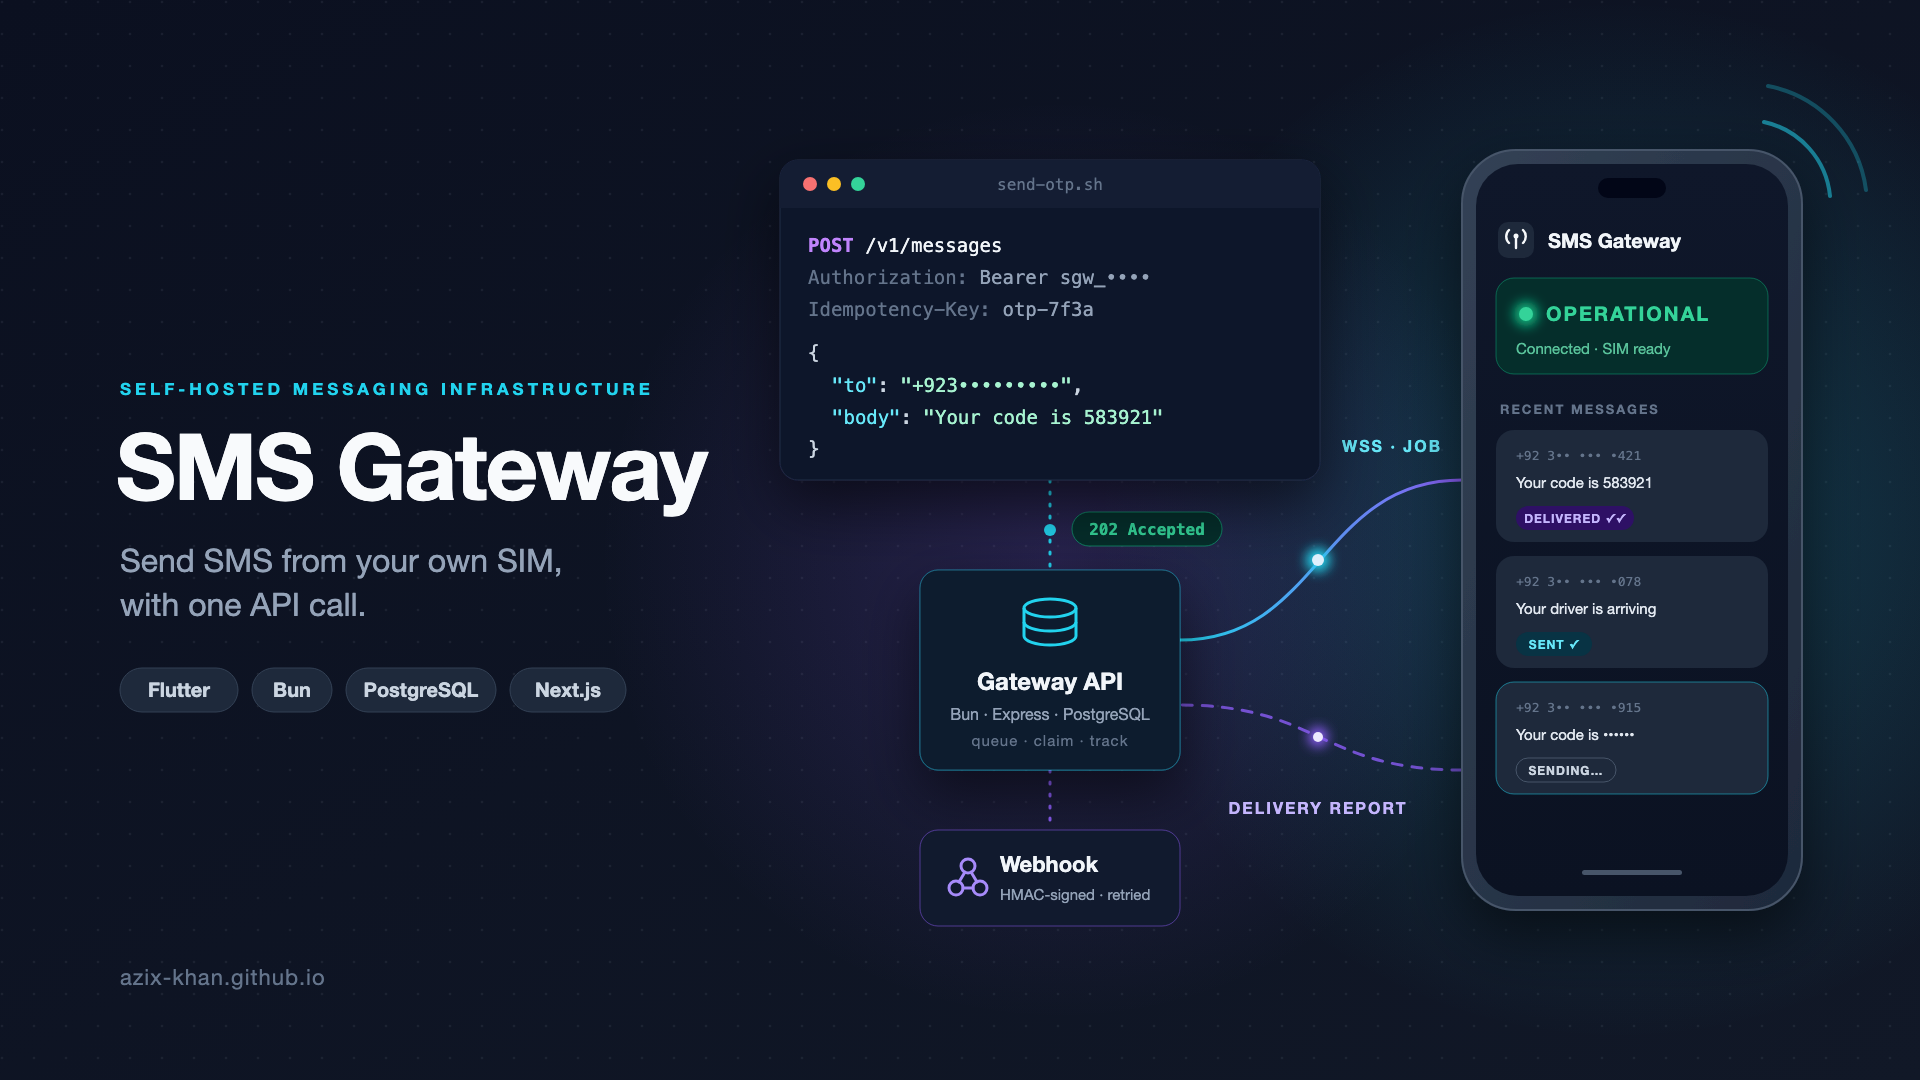
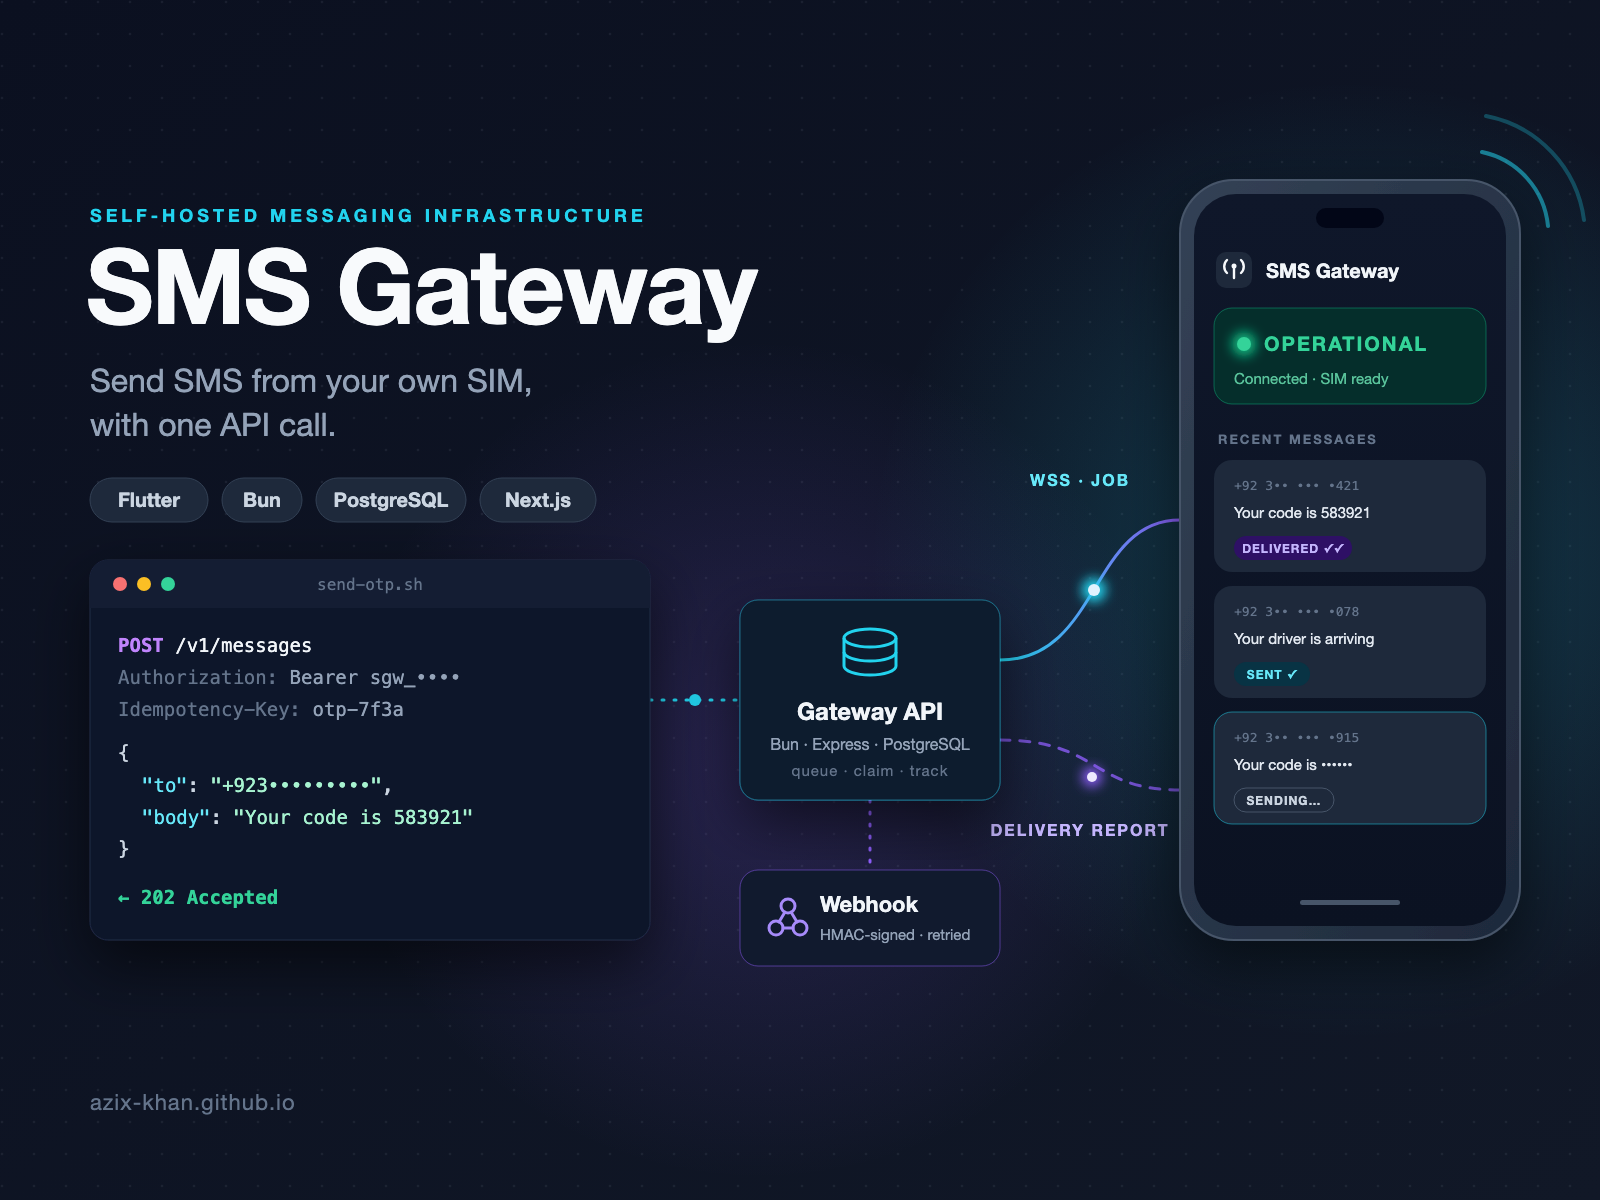
deploy: 883eff52aecc4310280c59a25e3ae66f8698ac01 azix-khan/azixkhan@883eff52aecc4310280c59a25e3ae66f8698ac01

diff --git a/flutter_service_worker.js b/flutter_service_worker.js
@@ -8,7 +8,7 @@ const RESOURCES = {"manifest.json": "1f04534604b288d66c46047b764011be",
 "icons/Icon-192.png": "ac9a721a12bbc803b44f645561ecb1e1",
 "icons/Icon-maskable-192.png": "c457ef57daa1d16f64b27b786ec2ea3c",
 "icons/Icon-maskable-512.png": "301a7604d45b3e739efc881eb04896ea",
-"flutter_bootstrap.js": "9d21502f243a1ea3624ce9908df6096b",
+"flutter_bootstrap.js": "e0143eb97124b6fbb941132c58a4a946",
 "assets/AssetManifest.bin.json": "d70460f8a66420bc4ef01c4898dfdbfa",
 "assets/assets/work/extendztech.jpg": "4ad7ecb2b3c79f596e27ae01ac7031c3",
 "assets/assets/work/freelancer.png": "748a26eac4c1b4fb2fcef2f1a0977521",
@@ -35,7 +35,7 @@ const RESOURCES = {"manifest.json": "1f04534604b288d66c46047b764011be",
 "assets/assets/apps/bata.png": "5fb3127f456cd437df7bdc5fc2647464",
 "assets/assets/apps/maintanence-app.png": "296646fff6a5750b3f6d44432d81fb23",
 "assets/assets/apps/tradex.png": "62571b86270eaf29b425fa3d84e240f4",
-"assets/assets/apps/sms-gateway.png": "1f68959eecaaa53dd12bcaf6a173ff43",
+"assets/assets/apps/sms-gateway.png": "46640030281fe79a967089d69c30bd39",
 "assets/assets/apps/together1.png": "e10ddd4f6048992e727d473e62726a69",
 "assets/assets/apps/tax-corp-logo.png": "55675591e1da46380fe8e343e68a247a",
 "assets/assets/apps/not-much.png": "e47eaf4bc6495466555a70be1fa29ae3",

diff --git a/flutter_bootstrap.js b/flutter_bootstrap.js
@@ -38,6 +38,6 @@ _flutter.buildConfig = {"engineRevision":"b5990e5ccc5e325fd24f0746e7d6689bbebc7c
 
 _flutter.loader.load({
   serviceWorkerSettings: {
-    serviceWorkerVersion: "728164650"
+    serviceWorkerVersion: "629919690"
   }
 });
